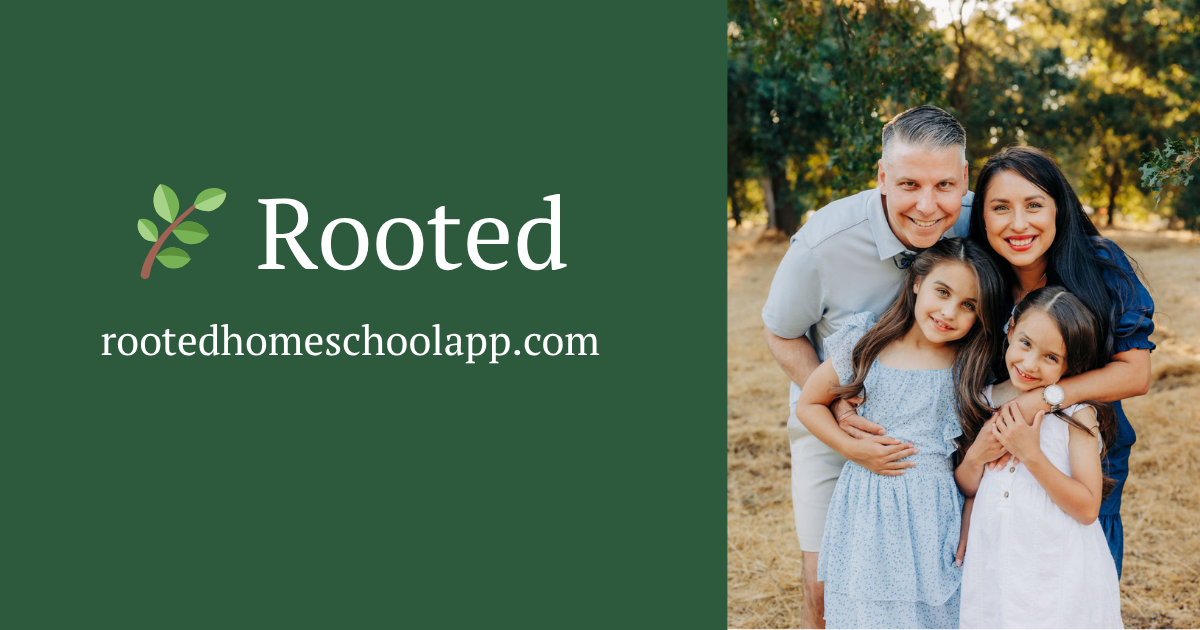
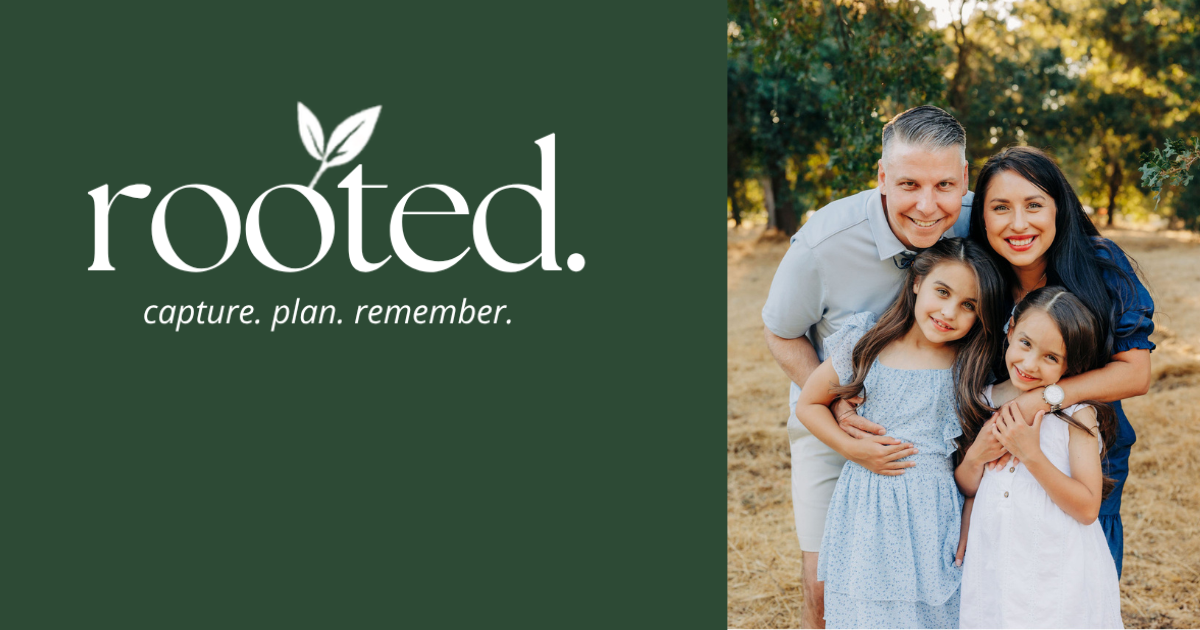
fix: replace OG image with new branding
Swapped og-image.png from old logo (emoji leaf + URL text) to
new branding (proper leaf logo + capture.plan.remember tagline
+ family photo). Bumped cache param to v=3.

Changed region(s): [[0.0617, 0.1508, 0.4933, 0.4524], [0.0617, 0.4825, 0.4933, 0.573]]

diff --git a/app/layout.tsx b/app/layout.tsx
@@ -33,13 +33,13 @@ export const metadata: Metadata = {
     url: "https://rootedhomeschoolapp.com",
     siteName: "Rooted",
     type: "website",
-    images: ['https://rootedhomeschoolapp.com/images/og-image.png?v=2'],
+    images: ['https://rootedhomeschoolapp.com/images/og-image.png?v=3'],
   },
   twitter: {
     card: "summary_large_image",
     title: "Rooted",
     description: "Capture. Plan. Remember. — Rooted is the homeschool companion that helps you plan your days, capture the moments, and hold onto it all.",
-    images: ['https://rootedhomeschoolapp.com/images/og-image.png?v=2'],
+    images: ['https://rootedhomeschoolapp.com/images/og-image.png?v=3'],
   },
   appleWebApp: {
     capable: true,
